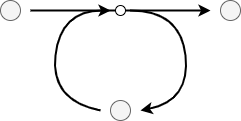
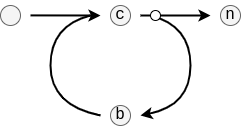
Finished graph chapter for now
Next up, instructions, and then we fix missing links and move to
`brane-drv` and talk about execution.

Changed region(s): [[0.1162, 0.0, 1.0, 1.0], [0.0, 0.0, 0.0871, 0.2231]]

diff --git a/specification/src/spec/wir/graph.md b/specification/src/spec/wir/graph.md
@@ -202,7 +202,55 @@ The `Loop`-edge connects to one sequence of edges that are taken repeatedly, and
 Because the `Loop` is conditional, it depends on the top value on the stack every time at the start of a new iteration. In particular, this must be a boolean value, and the iteration is taken if it is true, and the next edge is taken if the value is false. Clearly, the loop body is allowed to manipulate the top of the stack in between checks.
 
 The following fields are used in a `Loop`:
-- `c` (): Test
+- `c` (number): Defines the index of the first edge of a series that computes the condition at the start of every iteration.
+- `b` (number): Defines the index of the first edge of a series that implements the body of the loop. These are the edges that are taken repeatedly as long as the edges of `c` compute true.
+- `n` (number): The index of the next edge to traverse once the edges of `c` compute false.
+
+An example `Loop`-edge is:
+```json
+{
+    "kind": "loop",
+    "c": 42,
+    "b": 52,
+    "n": 62
+}
+```
+
+### Call
+![Abstract shape of a call edge](../../assets/diagrams/EdgeCall.png)
+
+_Identifier: `"cll"`_
+
+The `Call`-edge implements a call to another workflow snippet as if it were a function. In particular, before the next edge is traversed, a series of edges are executed until a `Return`-edge is traversed. This then unwinds the stack back to the point of the `Call`, possibly pushing a result of the function on there before continuing.
+
+This edge thus behaves similarly to a [`Node`](#node)-edge from the graph perspective, except that it calls other edges instead of a task container. Another difference is that the call does not inherently encode the function to call; instead, this is represented as a value on the stack and may thus differ dynamically to perform virtual function calls (although the rest of the language does not support this, currently).
+
+The following fields make a `Call`:
+- `n` (number): The index of the next edge to traverse once the function body returns.
+
+An example:
+```json
+{
+    "kind": "cll",
+    "n": 42
+}
+```
+
+### Return
+![Abstract shape of a return edge](../../assets/diagrams/EdgeReturn.png)
+
+_Identifier: `"ret"`_
+
+Counterpart to the [`Call`](#call)-edge, the `Return`-edge marks the end of a function body. Doing so unwinds the stack until the state of the most recent [`Call`](#call), and possibly pushes the top value of the stack before unwinding after it's done (this emulates function return values).
+
+The `Return` does not have any fields, since its behaviour is defined solely based on the stack and its frames.
+
+Example `Return`:
+```json
+{
+    "kind": "ret"
+}
+```
 
 
 ## Miscellaneous
@@ -342,3 +390,9 @@ It is defined as a string with one of the following possible values:
 - `"Min"`: The smallest value of all return values is returned. Only works if the return values are numerical.
 - `"All"`: All values of the branches are aggregated into an array of that type.
 - `"None"`: The execution engine blocks until all branches have returned, but otherwise returns void.
+
+
+## Next
+In the [next chapter](./instructions.md), we define the final parts of the WIR: the instructions that manipulate the stack and that can be annotated on a [`Linear`](#linear)-edge. If you are reading the WIR bottom-up, you should instead proceed to the [previous chapter](./schema.md) where we define the toplevel of the WIR, which mostly relates to definitions and how edges are tied together.
+
+Alternatively, you can select a different topic than the WIR altogether in the sidebar on the left.
